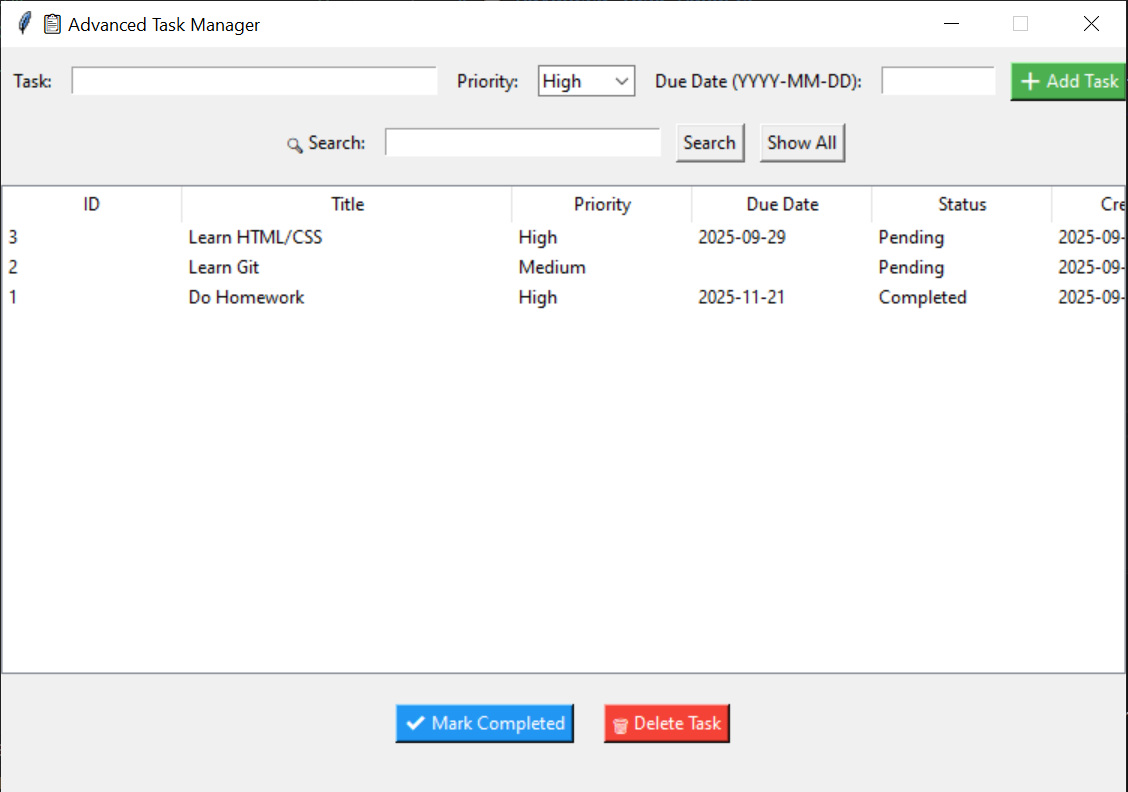
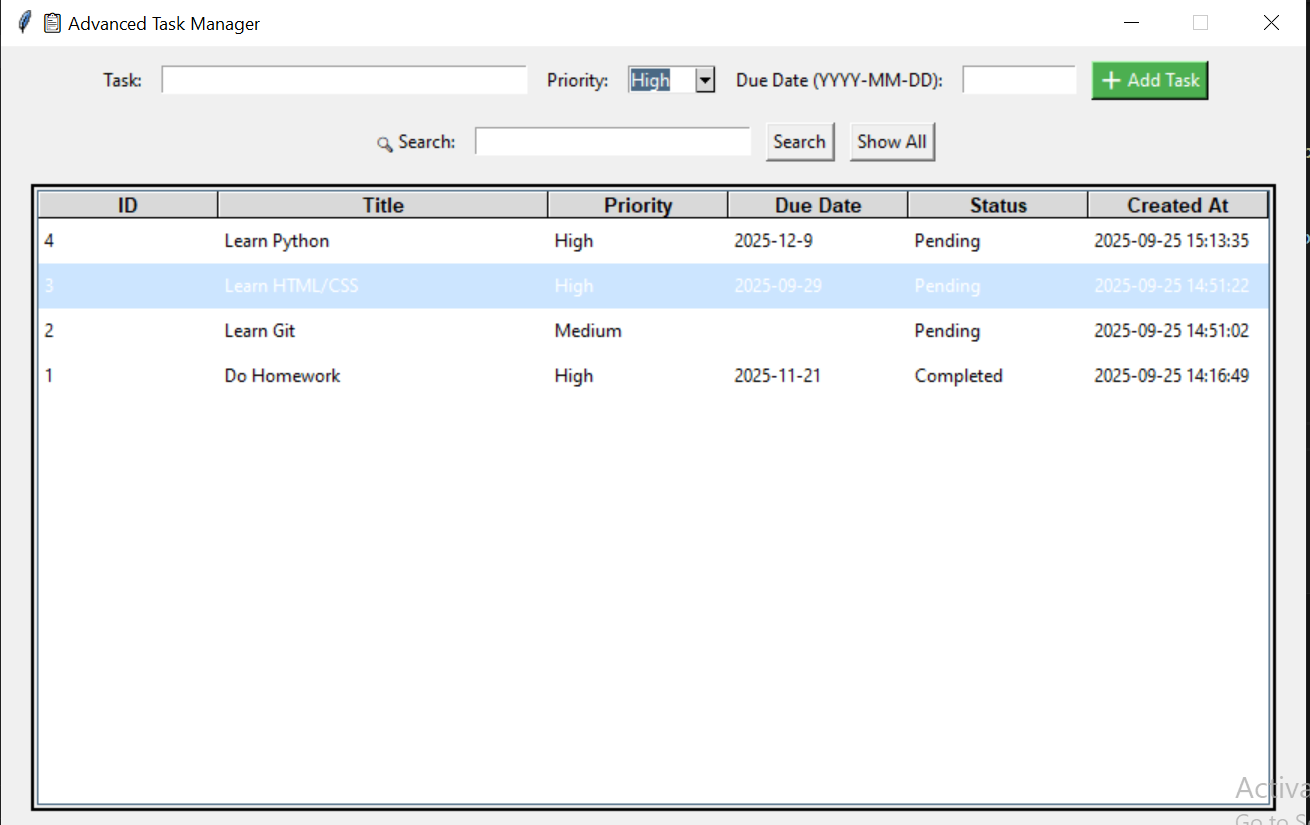
Version 2.0

diff --git a/main.py b/main.py
@@ -73,8 +73,21 @@ def load_tasks():
 # UI Setup
 root = tk.Tk()
 root.title("📋 Advanced Task Manager")
-root.geometry("750x500")
+root.geometry("870x520")
 root.resizable(False, False)
+
+# Style Configuration for Treeview (adds row borders)
+style = ttk.Style()
+style.theme_use("default")
+style.configure("Treeview",
+                background="white",
+                foreground="black",
+                rowheight=30,
+                fieldbackground="white",
+                bordercolor="black",
+                borderwidth=1)
+style.configure("Treeview.Heading", font=('Arial', 10, 'bold'))
+style.map("Treeview", background=[("selected", "#cce5ff")])
 
 # Input Frame
 frame_top = tk.Frame(root, pady=10)
@@ -107,13 +120,17 @@ btn_search.pack(side=tk.LEFT, padx=5)
 btn_show_all = tk.Button(frame_search, text="Show All", command=load_tasks)
 btn_show_all.pack(side=tk.LEFT, padx=5)
 
+# Treeview Frame with border
+frame_table = tk.Frame(root, bd=2, relief="solid", padx=2, pady=2)
+frame_table.pack(pady=10)
+
 # Task Table
 cols = ("ID", "Title", "Priority", "Due Date", "Status", "Created At")
-tree = ttk.Treeview(root, columns=cols, show="headings", height=15)
+tree = ttk.Treeview(frame_table, columns=cols, show="headings", height=15)
 for col in cols:
     tree.heading(col, text=col)
     tree.column(col, width=120 if col != "Title" else 220)
-tree.pack(pady=10)
+tree.pack()
 
 # Action Buttons
 frame_actions = tk.Frame(root, pady=10)
